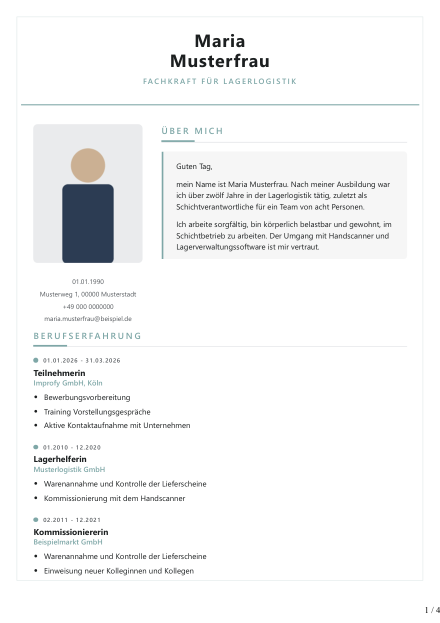
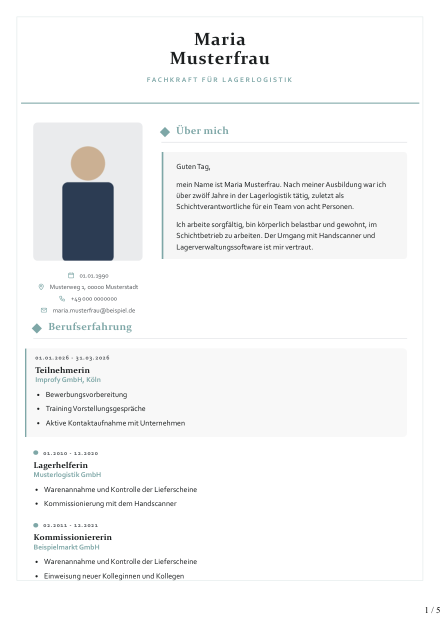
Vier Schriftstimmen statt einer - die Sammlung liest sich nicht mehr wie ein Baukasten
**Der Befund.** Alle 23 Vorlagen benutzten dieselbe Systemschrift, dieselbe
Ueberschriftenform und dasselbe Namensbild. Nur die Farbe wechselte. Genau so liest ein
Recruiter einen Baukasten: 23-mal dasselbe Blatt in 23 Farben. Eine Sammlung, die ein
Mensch gestaltet hat, hat verschiedene Handschriften.

**Vier Stimmen**, jede mit eigener Schrift, eigenem Namensbild und eigener Ueberschrift:

  klassik (7)  Serifen fuer Name und Ueberschriften, humanistische Sans im Text.
               Ueberschrift gemischt gesetzt mit einer Raute davor statt Versalien mit
               Balken darunter. Ruhig, gedruckt, wertig.
  technik (8)  Schmale Grotesk, gross und in Versalien, kraeftiger Balken.
               Klar und sachlich.
  warm (4)     Humanistische Sans durchgehend, weiche Formen.
  klar (4)     Neutral und leicht - fuer die Nummern, bei denen die Farbe die
               Aussage ist.

Die Schriften liegen auf dem Arbeitsrechner; jede Stimme hat eine Ausweichkette. Sie
werden nicht mitgeliefert - die Microsoft-Lizenzen erlauben das nicht.

**Weitere Handgriffe:**
- Kontaktangaben mit Strichzeichnungen statt als graue Liste. Als SVG im Blatt, nicht
  als Symbolschrift: fehlt eine Schrift, stehen sonst Kaestchen im Lebenslauf.
- Die laufende Massnahme ist als einzige Station hinterlegt und mit einer Kante
  markiert - sie ist die aktuelle, das darf man sehen.
- Zeitraeume in Tabellenziffern: stehen sauber untereinander, statt zu flackern.
[…]

diff --git a/templates/cv_designs/cv_skin.html b/templates/cv_designs/cv_skin.html
@@ -18,7 +18,14 @@
   --text:   #1d1f21;
   --grau:   #55595c;
   --linie:  #dde0e2;
+  /* Die Stimme der Vorlage: Titelschrift und Textschrift. Vier Stimmen teilen sich die
+     23 Nummern - siehe cv_sammlung.STIMMEN. `| safe` ist Pflicht, sonst zerlegt Jinja
+     die Anfuehrungszeichen in den Schriftnamen. */
+  --titelschrift: {{ skin.schrift.titel | safe }};
+  --textschrift:  {{ skin.schrift.text | safe }};
 }
+body { font-family: var(--textschrift); }
+.kopf .name, h2, h3, .eintrag .titel { font-family: var(--titelschrift); }
 @page { margin: 0 0 12mm; }
 body { color: var(--text); }
 
@@ -32,20 +39,29 @@ table.seite td { padding: 0; vertical-align: top; }
    Zipfelspitze auf dem ersten Wort ("SCHULBILDUNG" ohne S, gesehen am 18.09.2026).
    Der Tabellenkopf dagegen wird von Chrome auf jeder Seite neu gesetzt - seine
    Polsterung damit auch. Bei `band` muss sie groesser sein als der Zipfel hoch ist. */
-table.seite > thead td { padding-bottom: {{ '13mm' if skin.kopfform == 'band' else '9mm' }}; }
+table.seite > thead td { padding-bottom: {{ '10mm' if skin.kopfform == 'band' else '9mm' }}; }
 
 /* ------------------------------------------------------------------ Kopfformen */
 .kopf { position: relative; }
-.kopf .name { line-height: 1.12; font-weight: 700; }
-.kopf .rolle { font-size: 10.5pt; font-weight: 600; letter-spacing: .18em;
-               text-transform: uppercase; }
+/* Name und Rolle folgen der Stimme: die Serifenstimme setzt gemischt und ruhig, die
+   schmale Grotesk gross und in Versalien, die neutrale leicht und weit. Vorher war der
+   Name in allen 23 derselbe fette Block - das war der zweite Grund, warum die Sammlung
+   wie ein Baukasten aussah. */
+.kopf .name { line-height: 1.1;
+              font-weight: {{ skin.schrift.name_gewicht | safe }};
+              text-transform: {{ skin.schrift.name_versal | safe }};
+              letter-spacing: {{ skin.schrift.name_sperr | safe }}; }
+.kopf .rolle { font-size: 9.5pt; font-weight: 600; letter-spacing: .22em;
+               text-transform: uppercase; font-family: var(--textschrift); }
 
 {% if skin.kopfform == 'band' %}
-.kopf { background: var(--farbe); padding: 16mm 16mm 12mm; }
+.kopf { background: var(--farbe); padding: 14mm 16mm 10mm; }
 .kopf .name { color: #fff; font-size: 25pt; }
 .kopf .rolle { color: #ffffffd0; margin-bottom: 2.5mm; }
-.zipfel { position: absolute; left: 18mm; bottom: -9mm; width: 0; height: 0;
-          border-left: 9mm solid var(--farbe); border-bottom: 9mm solid transparent; }
+/* Der Zipfel kostet auf **jeder** Seite Hoehe, weil der Abstand darunter groesser sein
+   muss als er hoch ist. 7 mm reichen fuer die Form und sparen bei jedem Blatt 3 mm. */
+.zipfel { position: absolute; left: 18mm; bottom: -7mm; width: 0; height: 0;
+          border-left: 7mm solid var(--farbe); border-bottom: 7mm solid transparent; }
 /* Der Zipfel ragt unter den Kopf hinaus. Auf Seite 1 war darunter Platz, auf Seite 2
    begann der Text sofort - dort lag die Spitze auf dem Wort „SCHULBILDUNG" und
    verdeckte den ersten Buchstaben. Der Abstand muss deshalb groesser sein als der
@@ -138,9 +154,21 @@ td.links { width: 52mm; padding-right: 9mm !important; }
 .foto { width: 52mm; height: 66mm; border-radius: 2mm;
         {% if skin.kopfform == 'band' %}border: 1.2mm solid var(--farbe2);{% endif %}
         {% if skin.kopfform == 'links' %}border: 1.4mm solid #fff;{% endif %} }
-.kontakt { margin-top: 6mm; font-size: 9pt; line-height: 1.85; color: var(--grau);
-           {% if skin.kopfform in ('flaeche', 'rahmen') %}text-align: center;{% endif %} }
-.kontakt div { overflow-wrap: anywhere; }
+.kontakt svg { width: 3.3mm; height: 3.3mm; flex: none; margin-top: .3mm;
+               fill: none; stroke: var(--farbe); stroke-width: 1.35;
+               stroke-linecap: round; stroke-linejoin: round; }
+.kontakt div { display: flex; align-items: flex-start; gap: 2.4mm; }
+/* Eine Telefonnummer darf nie umbrechen - eine halbe Nummer ist keine Nummer. */
+.kontakt .nummer { white-space: nowrap; }
+/* Eng gesetzt: Die Zeichen kosten Hoehe, und der Kontaktblock steht neben dem Foto -
+   waechst er, schiebt er bei duennen Lebenslaeufen eine Zeile auf ein neues Blatt. */
+.kontakt { margin-top: 5mm; font-size: 8.8pt; line-height: 1.35; color: var(--grau);
+           display: flex; flex-direction: column; gap: 1.3mm;
+           {% if skin.kopfform in ('flaeche', 'rahmen') %}align-items: center;{% endif %} }
+/* Ohne Notbremse reisst eine sehr lange Adresse aus der Spalte; mit ihr bricht sie
+   an den unsichtbaren Trennstellen hinter @ und Punkt, nicht mitten im Wort. */
+.kontakt div { overflow-wrap: break-word; }
+.kontakt .mail { overflow-wrap: anywhere; }
 
 /* ------------------------------------------------------------------ Satzbild
 
@@ -159,16 +187,32 @@ td.links { width: 52mm; padding-right: 9mm !important; }
      Eine feine Linie mit einem farbigen Punkt fuehrt an den Eintraegen entlang. Das
      gibt dem Auge eine Kante und macht aus einer Liste einen Verlauf. */
 
-h2 { color: var(--farbe); font-size: 12pt; font-weight: 600; letter-spacing: .2em;
-     text-transform: uppercase; position: relative; padding-bottom: 2.4mm; }
+h2 { color: var(--farbe); position: relative; padding-bottom: 2.4mm;
+     font-size: {{ '14pt' if skin.stimme == 'klassik' else '12pt' }};
+     font-weight: {{ skin.schrift.h2_gewicht | safe }};
+     letter-spacing: {{ skin.schrift.h2_sperr | safe }};
+     text-transform: {{ skin.schrift.h2_versal | safe }}; }
 /* Haarlinie ueber die Breite, darauf ein kurzes kraeftiges Stueck in der Hausfarbe -
-   der Unterschied zwischen "unterstrichen" und "gesetzt". */
+   der Unterschied zwischen "unterstrichen" und "gesetzt". Die schmale Grotesk traegt
+   einen kraeftigeren Balken, die Serifenstimme nur die Haarlinie: zu jeder Schrift
+   gehoert ein anderes Gewicht an Linien. */
 h2::before { content: ""; position: absolute; left: 0; right: 0; bottom: 0;
              height: .25mm; background: var(--linie); }
+{% if skin.stimme != 'klassik' %}
 h2::after  { content: ""; position: absolute; left: 0; bottom: 0;
-             width: 16mm; height: .8mm; background: var(--farbe); }
+             width: {{ '26mm' if skin.stimme == 'technik' else '16mm' }};
+             height: {{ '1.2mm' if skin.stimme == 'technik' else '.8mm' }};
+             background: var(--farbe); }
+{% else %}
+/* Klassik: ein Quadrat vor der Ueberschrift statt eines Balkens darunter. */
+h2 { padding-left: 7mm; }
+h2::after { content: ""; position: absolute; left: 0; top: .9em;
+            width: 3.4mm; height: 3.4mm; background: var(--farbe);
+            transform: translateY(-50%) rotate(45deg); }
+{% endif %}
 h3 { color: var(--text); font-size: 9.5pt; font-weight: 700; letter-spacing: .16em;
-     text-transform: uppercase; margin-top: 7mm; opacity: .78; }
+     text-transform: uppercase; margin-top: 7mm; opacity: .78;
+     font-family: var(--textschrift); }
 
 /* `flow-root` ist hier der entscheidende Punkt: Ohne ihn laeuft der Kasten eines
    Eintrags **unter** der Fotospalte durch und nur der Text weicht aus. Die Linie und
@@ -190,7 +234,17 @@ h3 { color: var(--text); font-size: 9.5pt; font-weight: 700; letter-spacing: .16
 .eintrag .titel:first-child { border-left: .8mm solid var(--farbe); padding-left: 3mm; }
 .eintrag .titel { font-weight: 700; font-size: 11.5pt; line-height: 1.25; }
 .eintrag .firma { display: block; font-size: 10pt; font-weight: 600;
-                  color: var(--farbe); margin-top: .4mm; }
+                  color: var(--farbe); margin-top: .4mm;
+                  font-family: var(--textschrift); }
+/* Zahlen in Tabellenziffern: Zeitraeume stehen dann sauber untereinander statt zu
+   flackern, weil die Eins schmaler ist als die Null. */
+.eintrag .wann, .sprachzeile, .paar { font-variant-numeric: tabular-nums; }
+/* Die laufende Massnahme ist die juengste Station und die einzige, die noch andauert.
+   Ein feiner Rahmen hebt sie heraus, ohne sie anzuschreien. */
+.eintrag.laufend { background: rgba(0, 0, 0, .028); border-radius: 0 2mm 2mm 0;
+                   padding: 2.5mm 3mm 2.5mm 4mm; margin-left: -4mm;
+                   border-left: .8mm solid var(--farbe); }
+.eintrag.laufend .wann::before { display: none; }
 .eintrag .dazu  { font-size: 9.5pt; color: var(--grau); margin-top: .4mm; }
 
 /* „Über mich" ist das Erste, was gelesen wird - es bekommt eine eigene Flaeche statt
@@ -323,11 +377,19 @@ li { margin-bottom: 1.4mm; }
 <table class="kopfreihe"><tr>
   <td class="links">
     {% if zeige_foto %}<img class="foto" src="{{ foto }}" alt="">{% endif %}
+    {# Zeichen statt einer grauen Liste. Sie sind als SVG im Blatt, nicht als Schrift:
+       ein Symbolfont waere eine weitere Abhaengigkeit, und fehlt er, stehen Kaestchen
+       im Lebenslauf. Die Zeichen sind bewusst Strichzeichnungen in der Hausfarbe -
+       sie sollen den Blick fuehren, nicht um Aufmerksamkeit kaempfen. #}
     <div class="kontakt">
-      {% if d.geburtsdatum %}<div>{{ d.geburtsdatum }}</div>{% endif %}
-      {% if d.adresse %}<div>{{ d.adresse }}</div>{% endif %}
-      {% if d.mobil %}<div>{{ d.mobil }}</div>{% endif %}
-      {% if d.email %}<div>{{ d.email }}</div>{% endif %}
+      {% if d.geburtsdatum %}
+      <div><svg viewBox="0 0 16 16" aria-hidden="true"><rect x="2" y="3.2" width="12" height="11" rx="1.6"/><path d="M2 6.6h12M5.4 1.8v2.6M10.6 1.8v2.6"/></svg><span>{{ d.geburtsdatum }}</span></div>{% endif %}
+      {% if d.adresse %}
+      <div><svg viewBox="0 0 16 16" aria-hidden="true"><path d="M8 14.6S13 9.9 13 6.4A5 5 0 0 0 3 6.4C3 9.9 8 14.6 8 14.6Z"/><circle cx="8" cy="6.3" r="1.9"/></svg><span>{{ d.adresse }}</span></div>{% endif %}
+      {% if d.mobil %}
+      <div><svg viewBox="0 0 16 16" aria-hidden="true"><path d="M3.1 2.6h3l1.2 3-1.6 1.2a8.4 8.4 0 0 0 3.5 3.5l1.2-1.6 3 1.2v3a1 1 0 0 1-1.1 1C6.6 13.4 2.6 9.4 2.1 3.7a1 1 0 0 1 1-1.1Z"/></svg><span class="nummer">{{ d.mobil }}</span></div>{% endif %}
+      {% if d.email %}
+      <div><svg viewBox="0 0 16 16" aria-hidden="true"><rect x="1.8" y="3.4" width="12.4" height="9.2" rx="1.4"/><path d="m2.2 4.4 5.8 4.3 5.8-4.3"/></svg><span class="mail">{{ d.email | replace('@', '@' ~ '') | replace('.', '.' ~ '') }}</span></div>{% endif %}
     </div>
   </td>
   <td>
@@ -350,7 +412,7 @@ li { margin-bottom: 1.4mm; }
          weiter, damit kein halbes Blatt leer bleibt. #}
       {% if weitere.beruf %}<img class="nebenfoto" src="{{ weitere.beruf }}" alt="">{% endif %}
       {% for b in beruf %}
-      <div class="eintrag">
+      <div class="eintrag{{ ' laufend' if loop.first and b.firma and 'Improfy' in b.firma }}">
         {# Zeitraum oben und leise, darunter die Stelle. Steht nur eines von Titel und
            Firma da, rueckt es schlicht in die Titelzeile - kein leeres Feld, kein
            Trennstrich, der im Nichts haengt. #}

diff --git a/cv_sammlung.py b/cv_sammlung.py
@@ -26,53 +26,81 @@ bleibt erkennbar.
 **Bewertungen:** sterne · punkte · balken · text (ein Niveau statt einer Zahl)
 """
 
-# (Kennung, Nummer, Bezeichnung, Kopfform, Farbe, Zweitfarbe, Bewertung, Beschreibung)
+# Die vier Stimmen. Jede bestimmt Schrift, Namensbild und Ueberschriftenform.
+STIMMEN = {
+    "klassik": {
+        "titel": '"Constantia", "Georgia", "Palatino Linotype", Georgia, serif',
+        "text":  '"Corbel", "Candara", "Segoe UI", sans-serif',
+        "name_gewicht": "600", "name_versal": "none", "name_sperr": ".005em",
+        "h2_versal": "none", "h2_sperr": ".02em", "h2_gewicht": "600",
+    },
+    "technik": {
+        "titel": '"Bahnschrift", "Bahnschrift Condensed", "Segoe UI", "Arial Narrow", sans-serif',
+        "text":  '"Segoe UI", "Selawik", system-ui, sans-serif',
+        "name_gewicht": "700", "name_versal": "uppercase", "name_sperr": ".01em",
+        "h2_versal": "uppercase", "h2_sperr": ".22em", "h2_gewicht": "600",
+    },
+    "warm": {
+        "titel": '"Candara", "Corbel", "Segoe UI", sans-serif',
+        "text":  '"Candara", "Corbel", "Segoe UI", sans-serif',
+        "name_gewicht": "700", "name_versal": "none", "name_sperr": "-.005em",
+        "h2_versal": "uppercase", "h2_sperr": ".14em", "h2_gewicht": "700",
+    },
+    "klar": {
+        "titel": '"Segoe UI", "Selawik", system-ui, sans-serif',
+        "text":  '"Segoe UI", "Selawik", system-ui, sans-serif',
+        "name_gewicht": "300", "name_versal": "none", "name_sperr": ".01em",
+        "h2_versal": "uppercase", "h2_sperr": ".2em", "h2_gewicht": "600",
+    },
+}
+
+# (Kennung, Nummer, Bezeichnung, Kopfform, Farbe, Zweitfarbe, Bewertung, Stimme, Beschreibung)
 SAMMLUNG = [
-    ("nr25", 25, "Improfy-Standard", "band", "#8cc63f", "#a5d65e", "sterne",
+    ("nr25", 25, "Improfy-Standard", "band", "#8cc63f", "#a5d65e", "sterne", "klar",
      "Grüner Kopf mit Sprechblase, Foto links – die Vorlage, die Atanas zuletzt für Köln setzte"),
-    ("nr2", 2, "Sonne", "ecke", "#f0a830", "#2f6f8f", "sterne",
+    ("nr2", 2, "Sonne", "ecke", "#f0a830", "#2f6f8f", "sterne", "warm",
      "Warme Form in der oberen Ecke, Name groß daneben"),
-    ("nr3", 3, "Grafit", "band", "#303030", "#9a9a9a", "punkte",
+    ("nr3", 3, "Grafit", "band", "#303030", "#9a9a9a", "punkte", "technik",
      "Dunkelgraues Band, Name in Konturschrift"),
-    ("nr3v2", "3.2", "Grafit Teal", "links", "#1c1c1c", "#2aa8a8", "punkte",
+    ("nr3v2", "3.2", "Grafit Teal", "links", "#1c1c1c", "#2aa8a8", "punkte", "technik",
      "Schwarze Spalte links, türkise Akzente"),
-    ("nr5", 5, "Signal", "schlicht", "#0078c0", "#2f6f8f", "punkte",
+    ("nr5", 5, "Signal", "schlicht", "#0078c0", "#2f6f8f", "punkte", "klar",
      "Weiß mit blauer Signalmarke am Namen – sehr aufgeräumt"),
-    ("nr6", 6, "Rosé", "links", "#cf8f8f", "#e3c4c4", "balken",
+    ("nr6", 6, "Rosé", "links", "#cf8f8f", "#e3c4c4", "balken", "warm",
      "Roséfarbene Spalte, zurückhaltend und freundlich"),
-    ("nr7", 7, "Kontrast", "band", "#f0a800", "#181830", "punkte",
+    ("nr7", 7, "Kontrast", "band", "#f0a800", "#181830", "punkte", "technik",
      "Gelbes Band über tiefem Nachtblau – der stärkste Kontrast der Sammlung"),
-    ("nr8", 8, "Salbei", "links", "#4a6060", "#a8a878", "balken",
+    ("nr8", 8, "Salbei", "links", "#4a6060", "#a8a878", "balken", "klassik",
      "Gedeckte Spalte in Salbei und Sand, Name in Gold"),
-    ("nr9", 9, "Nacht", "links", "#181818", "#00a8d8", "punkte",
+    ("nr9", 9, "Nacht", "links", "#181818", "#00a8d8", "punkte", "technik",
      "Schwarze Spalte, cyanfarbener Block am Kopf"),
-    ("nr10", 10, "Magenta", "ecke", "#d83060", "#f0a8c0", "sterne",
+    ("nr10", 10, "Magenta", "ecke", "#d83060", "#f0a8c0", "sterne", "warm",
      "Magenta-Bogen in der Ecke, Name schlicht daneben"),
-    ("nr11", 11, "Petrol", "band", "#304848", "#30a8a8", "balken",
+    ("nr11", 11, "Petrol", "band", "#304848", "#30a8a8", "balken", "technik",
      "Dunkles Petrolband mit türkisem Streifen"),
-    ("nr12", 12, "Sand", "flaeche", "#8a7551", "#f3efe7", "balken",
+    ("nr12", 12, "Sand", "flaeche", "#8a7551", "#f3efe7", "balken", "klassik",
      "Warmer Papierton, Name mittig, Bronzelinien – die ruhigste der Sammlung"),
-    ("nr13", 13, "Bogen", "rahmen", "#7fa8a8", "#dfe8e8", "text",
+    ("nr13", 13, "Bogen", "rahmen", "#7fa8a8", "#dfe8e8", "text", "klassik",
      "Feiner Rahmen mit geschwungener Oberkante"),
-    ("nr14", 14, "Rosenquarz", "ecke", "#e0609c", "#f7c4da", "sterne",
+    ("nr14", 14, "Rosenquarz", "ecke", "#e0609c", "#f7c4da", "sterne", "warm",
      "Geometrische Formen in Rosa, Name in Versalien"),
-    ("nr15", 15, "Tiefsee", "links", "#003060", "#00a8d8", "balken",
+    ("nr15", 15, "Tiefsee", "links", "#003060", "#00a8d8", "balken", "technik",
      "Blaue Blockstufen in der linken Spalte"),
-    ("nr16", 16, "Jade", "links", "#181818", "#48c0a8", "punkte",
+    ("nr16", 16, "Jade", "links", "#181818", "#48c0a8", "punkte", "technik",
      "Schwarze Spalte mit jadegrünem Kopfblock"),
-    ("nr17", 17, "Apricot", "ecke", "#d8927a", "#f0cdbd", "text",
+    ("nr17", 17, "Apricot", "ecke", "#d8927a", "#f0cdbd", "text", "klassik",
      "Weiche Apricotform, Name in derselben Farbe"),
-    ("nr18", 18, "Himmel", "flaeche", "#3d6f9e", "#d7e5f3", "text",
+    ("nr18", 18, "Himmel", "flaeche", "#3d6f9e", "#d7e5f3", "text", "klassik",
      "Zart hellblaue Seite, Name mittig"),
-    ("nr18v2", "18.2", "Himmel Tief", "links", "#003060", "#0060a8", "balken",
+    ("nr18v2", "18.2", "Himmel Tief", "links", "#003060", "#0060a8", "balken", "klar",
      "Dunkelblaue Randspalte mit abgestuften Blöcken"),
-    ("nr19", 19, "Marine", "band", "#17335c", "#21446f", "punkte",
+    ("nr19", 19, "Marine", "band", "#17335c", "#21446f", "punkte", "technik",
      "Marineblaues Band über die volle Breite, Foto überlappt die Kante"),
-    ("nr21", 21, "Flieder", "flaeche", "#6d5b86", "#cdc0dc", "sterne",
+    ("nr21", 21, "Flieder", "flaeche", "#6d5b86", "#cdc0dc", "sterne", "klassik",
      "Fliederfarbene Seite, Name mittig in Versalien"),
-    ("nr27", "27.1", "Atlantik", "links", "#00456e", "#c3d9dd", "punkte",
+    ("nr27", "27.1", "Atlantik", "links", "#00456e", "#c3d9dd", "punkte", "klassik",
      "Tiefblaue Randspalte, heller Inhalt daneben"),
-    ("nr1", 1, "Blanko", "schlicht", "#4a4a4a", "#9a9a9a", "text",
+    ("nr1", 1, "Blanko", "schlicht", "#4a4a4a", "#9a9a9a", "text", "klar",
      "Ganz ohne Farbe – für Arbeitgeber, die nichts als Text sehen wollen"),
 ]
 
@@ -95,8 +123,9 @@ def _eigen(kennung):
 
 
 NACH_KENNUNG = {k: dict(zip(
-    ("kennung", "nummer", "name", "kopfform", "farbe", "farbe2", "bewertung", "text"), z),
-    bild=_bild(z[0]), eigen=_eigen(z[0]))
+    ("kennung", "nummer", "name", "kopfform", "farbe", "farbe2", "bewertung", "stimme",
+     "text"), z),
+    bild=_bild(z[0]), eigen=_eigen(z[0]), schrift=STIMMEN[z[7]])
     for z in SAMMLUNG for k in (z[0],)}
 
 
